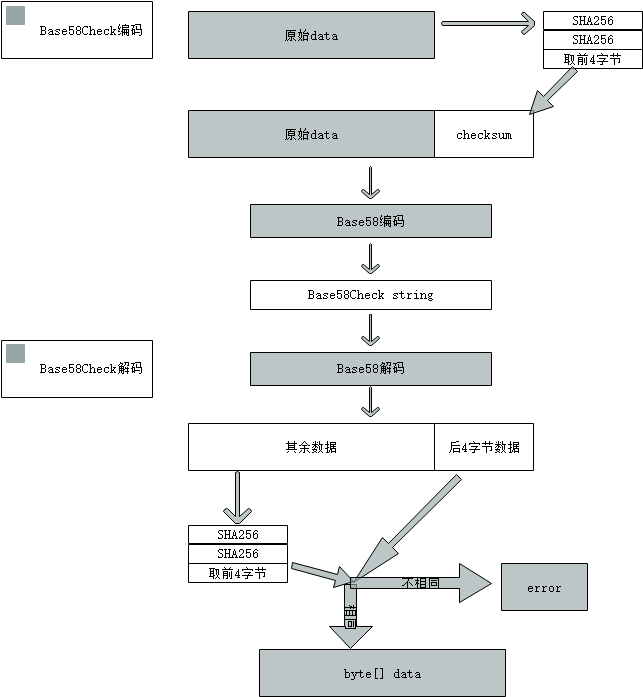
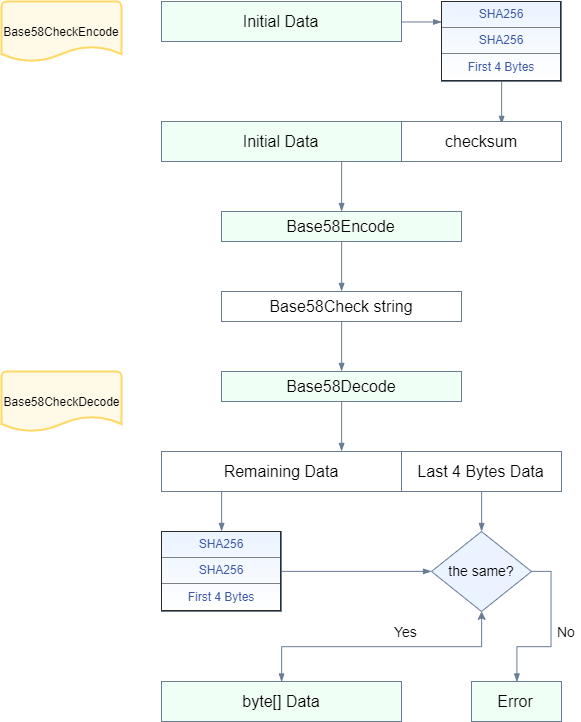
update images

diff --git a/docs/en-us/basic/concept/cryptography/encode_algorithm.md b/docs/en-us/basic/concept/cryptography/encode_algorithm.md
@@ -70,7 +70,6 @@ Interface definition:
    ```c#
    byte[] Base58CheckDecode(string input)
    ```
-   
 
 **Encoding Steps**:
 
@@ -80,13 +79,15 @@ Interface definition:
 
 **Decoding Steps**:
 
-1.  Use Base58 to decode input string to get byte array format decoded result.
+1. Use Base58 to decode input string to get byte array format decoded result.
 
-2.  Take the content of byte array except the last 4 bytes as data.
+2. Take the content of byte array except the last 4 bytes as data.
 
-3.  Encode data twice with SHA256 to get a hashed byte array. Check whether the first 4 bytes of the hashed value are identical with the last 4 bytes in byte array of step 1. If so, the decoded data is correct. Otherwise the data is corrupted.
+3. Encode data twice with SHA256 to get a hashed byte array. Check whether the first 4 bytes of the hashed value are identical with the last 4 bytes in byte array of step 1. If so, the decoded data is correct. Otherwise the data is corrupted.
 
-[![Base58Check Encoding & Decoding](../../images/blockchain_paradigm/Base58CheckEncodeAndDecode-en.png?imageMogr2/auto-orient/strip%7CimageView2/2/w/20)](../../images/blockchain_paradigm/Base58CheckEncodeAndDecode.png)
+   
+
+   ![](../../images/blockchain_paradigm/Base58CheckEncodeAndDecode.png)
 
 Example:
 

diff --git a/docs/zh-cn/basic/concept/cryptography/encode_algorithm.md b/docs/zh-cn/basic/concept/cryptography/encode_algorithm.md
@@ -79,13 +79,17 @@ byte[] Base58CheckDecode(string input)
 
 **解码步骤**：
 
-1.  把输入的字符串做 Base58 解码，得到 byte[] 数据。
+1. 把输入的字符串做 Base58 解码，得到 byte[] 数据。
 
-2.  取 byte[] 数据收字节到倒数第4字节前的所有数据 byte[] 称作 data。
+2. 取 byte[] 数据收字节到倒数第4字节前的所有数据 byte[] 称作 data。
 
-3.  把 data 做两次 SHA256 得到的哈希值的前4字节作为版本前缀 checksum，与 byte[] 数据的后4字节比较是否相同，相同则返回data, 否则判定为数据无效。
+3. 把 data 做两次 SHA256 得到的哈希值的前4字节作为版本前缀 checksum，与 byte[] 数据的后4字节比较是否相同，相同则返回data, 否则判定为数据无效。
 
-[![Base58Check编解码](../../images/blockchain_paradigm/Base58CheckEncodeAndDecode.png?imageMogr2/auto-orient/strip%7CimageView2/2/w/20)](../../images/blockchain_paradigm/Base58CheckEncodeAndDecode.png)
+   
+
+   ![](../../images/blockchain_paradigm/Base58CheckEncodeAndDecode.png)
+
+
 
 Example:
 
